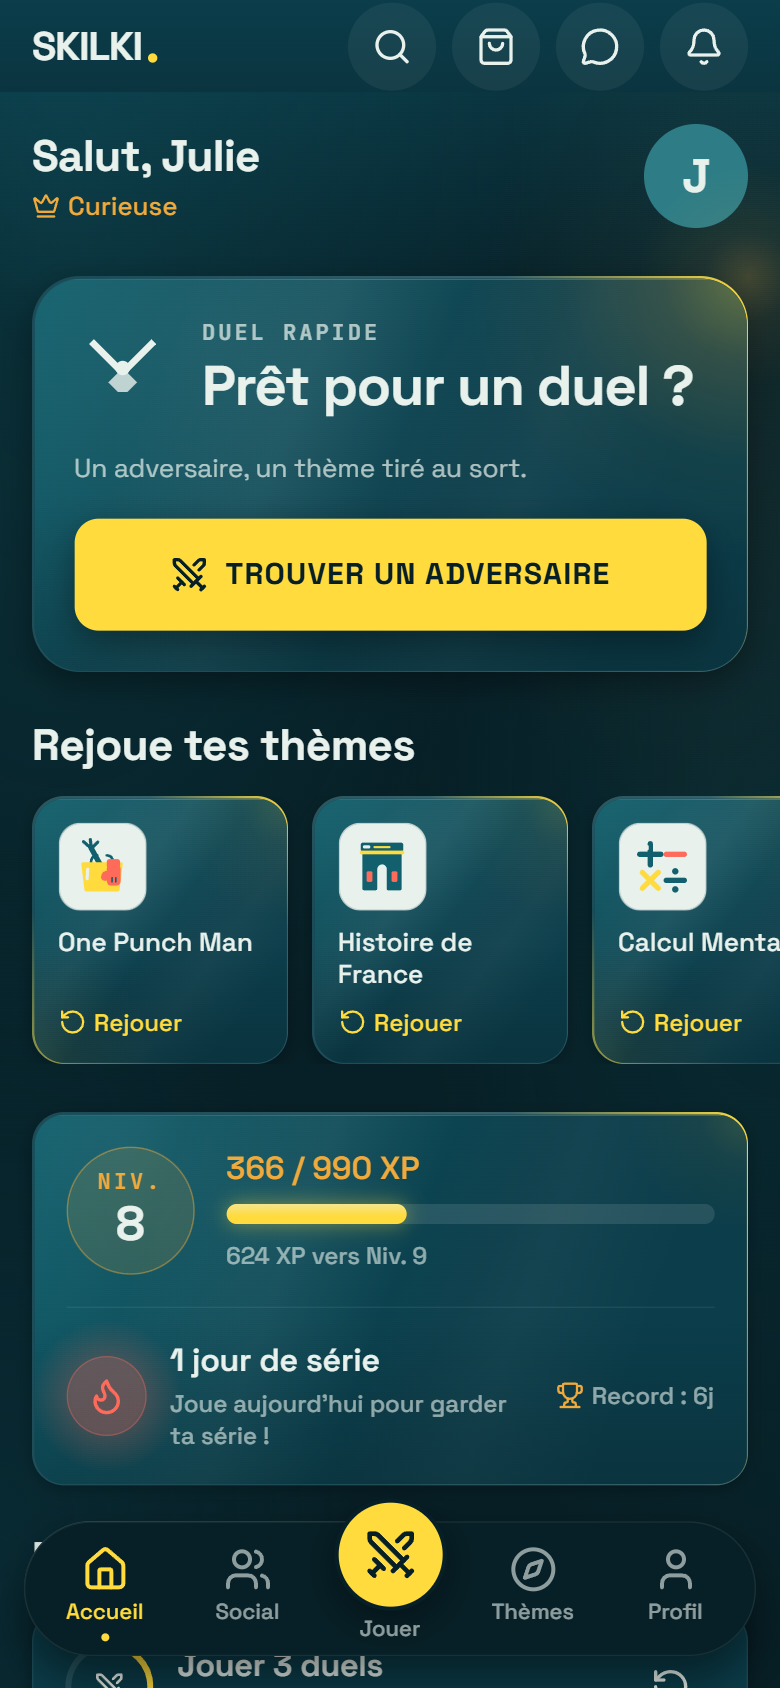
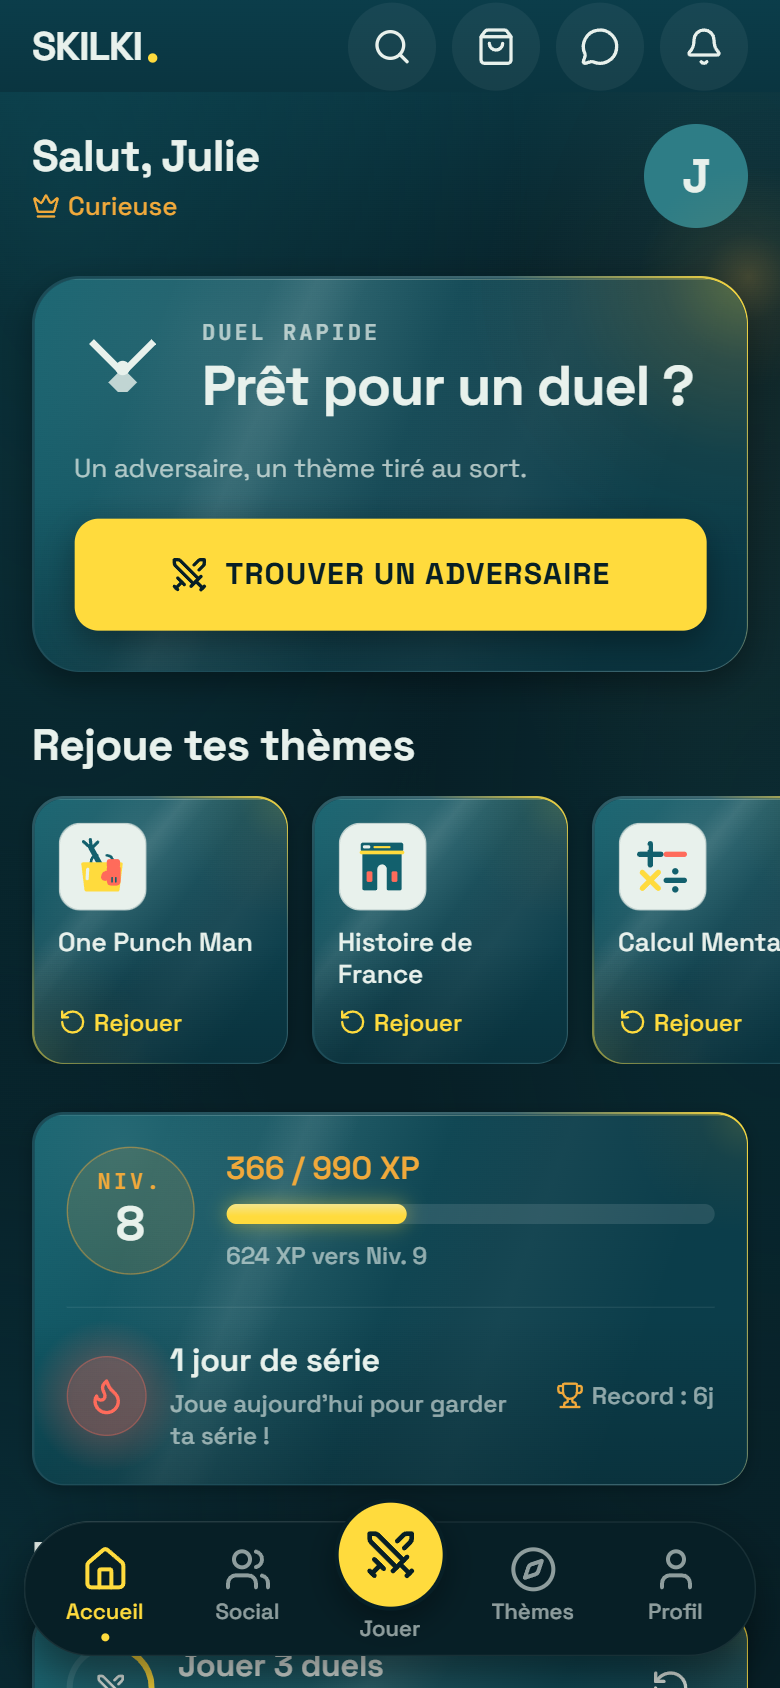
Accueil : finition satinée sur toutes les cartes de la page
Claude-Session: https://claude.ai/code/session_01R3eFQpVX5P8TU2NVP3JEF8

diff --git a/frontend/app/(tabs)/accueil.tsx b/frontend/app/(tabs)/accueil.tsx
@@ -20,7 +20,7 @@ import { authFetch } from '../../utils/api';
 import { t, getLanguage, pluralKey } from '../../utils/i18n';
 import { flushPendingScores } from '../../utils/pendingScores';
 import {
-  Txt, Icon, Button, IconButton, Badge, Card, Section, ProgressBar, ListRow, Loader,
+  Txt, Icon, Button, IconButton, Badge, Section, ProgressBar, ListRow, Loader,
   BottomSheet, Dialog, ThemeIcon, ThemeCard, AnswerButton, EmptyState, StatCard,
   SatinSurface, ProgressRing, HaloIcon, AmbientBackdrop,
 } from '../../components/ui';
@@ -380,7 +380,7 @@ const MissionsCard = React.memo(function MissionsCard({
   const canClaim = data.any_completed && !data.reward_claimed;
 
   return (
-    <Card>
+    <SatinSurface variant="card" contentStyle={styles.satinPad}>
       <View style={styles.missionList}>
         {data.missions.map((m) => {
           const pct = Math.min(m.progress / m.target, 1);
@@ -452,7 +452,7 @@ const MissionsCard = React.memo(function MissionsCard({
           </View>
         )}
       </View>
-    </Card>
+    </SatinSurface>
   );
 });
 
@@ -467,7 +467,7 @@ const ChallengeCard = React.memo(function ChallengeCard({ challenge, onAccept, o
     return `${h}h`;
   }
   return (
-    <Card accent="event">
+    <SatinSurface variant="card" warm="none" accent="event" contentStyle={styles.satinPad}>
       <View style={styles.rowCenter}>
         <UserAvatar avatarUrl={challenge.challenger_avatar_url} avatarSeed={challenge.challenger_avatar_seed} pseudo={challenge.challenger_pseudo} size={40} />
         <View style={styles.flexGap}>
@@ -486,7 +486,7 @@ const ChallengeCard = React.memo(function ChallengeCard({ challenge, onAccept, o
         <Button label={t('challenge.decline')} variant="ghost" size="sm" onPress={onDecline} haptic={false} style={styles.flex} />
         <Button label={t('challenge.accept')} icon="duel" size="sm" onPress={onAccept} haptic={false} style={styles.flex} />
       </View>
-    </Card>
+    </SatinSurface>
   );
 });
 
@@ -1315,13 +1315,13 @@ export default function AccueilScreen() {
         </Animated.View>
 
         {feedError ? (
-          <Card onPress={() => { setFeedError(false); loadFeed(); }}>
+          <SatinSurface variant="card" warm="none" contentStyle={styles.satinPad} onPress={() => { setFeedError(false); loadFeed(); }}>
             <View style={styles.rowCenter}>
               <Icon name="error" size={ICON_SIZE.md} color={COLOR.status.error} />
               <Txt variant="bodySmall" style={styles.flex}>{t('home.load_error')}</Txt>
               <Icon name="replay" size={ICON_SIZE.md} color={COLOR.text.secondary} />
             </View>
-          </Card>
+          </SatinSurface>
         ) : null}
 
         {/* ── 2. HERO Duel rapide : un seul CTA jaune ── */}
@@ -1361,12 +1361,12 @@ export default function AccueilScreen() {
                 />
               ))}
               {shownDuels.length > 0 && (
-                <Card style={styles.revengeCard}>
+                <SatinSurface variant="card" contentStyle={[styles.satinPad, styles.revengeCard]}>
                   <Txt variant="overline">{t('challenge.revenge_title')}</Txt>
                   {shownDuels.map((duel) => (
                     <RevengeRow key={duel.id} duel={duel} onRematch={() => handleRematch(duel)} />
                   ))}
-                </Card>
+                </SatinSurface>
               )}
               {canExpandMoves ? (
                 <Button
@@ -1491,9 +1491,11 @@ export default function AccueilScreen() {
                 style={styles.carousel}
                 contentContainerStyle={styles.carouselContent}
               >
-                {recommended.map(th => (
+                {recommended.map((th, i) => (
                   <ThemeCard
                     key={th.id}
+                    finish="satin"
+                    warm={i % 2 === 0 ? 'tr-bl' : 'tr'}
                     name={th.name}
                     themeId={th.id}
                     meta={th.match_count > 0 ? t(pluralKey('pilot.home.duels', th.match_count), { n: String(th.match_count) }) : undefined}
@@ -1506,7 +1508,7 @@ export default function AccueilScreen() {
         )}
 
         {/* ── Rangée discrète : bonus & événements, activité de la communauté ── */}
-        <Card padded={false} style={styles.moreCard}>
+        <SatinSurface variant="card" warm="none" contentStyle={styles.moreCard}>
           <ListRow
             leadingIcon="gift"
             title={t('pilot.home.bonus_row')}
@@ -1527,7 +1529,7 @@ export default function AccueilScreen() {
             style={styles.moreRow}
             testID="home-activity-row"
           />
-        </Card>
+        </SatinSurface>
       </ScrollView>
 
       {/* ── Feuille « Bonus & événements » ── */}
@@ -1783,6 +1785,8 @@ const styles = StyleSheet.create({
 
   // ── 3. À toi de jouer ──
   challengeActions: { flexDirection: 'row', gap: SPACE.sm, marginTop: SPACE.md },
+  // Cartes satinées : même padding que Card
+  satinPad: { padding: SPACE.cardPad },
   revengeCard: { paddingBottom: SPACE.sm },
 
   // ── 4. Progression ──

diff --git a/frontend/components/ui/ThemeCard.tsx b/frontend/components/ui/ThemeCard.tsx
@@ -3,6 +3,7 @@ import { View, Pressable, StyleSheet, StyleProp, ViewStyle } from 'react-native'
 import * as Haptics from 'expo-haptics';
 import Txt from './Txt';
 import ThemeIcon from './ThemeIcon';
+import SatinSurface from './SatinSurface';
 import { COLOR, RADII, SPACE, BORDER, TYPO } from '../../theme/tokens';
 import { t } from '../../utils/i18n';
 
@@ -23,24 +24,23 @@ type Props = {
    */
   layout?: 'tile' | 'compact' | 'row';
   onPress?: () => void;
+  /** 'satin' : même matière que les cartes de l'Accueil (tuile uniquement) */
+  finish?: 'flat' | 'satin';
+  /** Coins chauds du liseré satiné */
+  warm?: 'none' | 'tr' | 'tr-bl';
   testID?: string;
   style?: StyleProp<ViewStyle>;
 };
 
 // Carte de thème : icône sur plaque crème, nom, une seule méta. Pas de cartouche dans la carte.
-export default function ThemeCard({ name, themeId, cluster, superCategory, meta, level, layout = 'tile', onPress, testID, style }: Props) {
+export default function ThemeCard({ name, themeId, cluster, superCategory, meta, level, layout = 'tile', onPress, finish = 'flat', warm = 'tr', testID, style }: Props) {
   const compact = layout === 'compact';
   const tile = layout === 'tile' || compact;
   const containerStyle = compact ? styles.compact : tile ? styles.tile : styles.row;
   const iconSize = compact ? COMPACT_ICON : tile ? 64 : 44;
-  return (
-    <Pressable
-      testID={testID}
-      accessibilityRole="button"
-      accessibilityLabel={name}
-      onPress={() => { Haptics.impactAsync(Haptics.ImpactFeedbackStyle.Light); onPress?.(); }}
-      style={({ pressed }) => [containerStyle, pressed && styles.pressed, style]}
-    >
+  const satin = finish === 'satin' && layout === 'tile';
+  const body = (
+    <>
       <ThemeIcon themeId={themeId} themeName={name} cluster={cluster} superCategory={superCategory} size={iconSize} />
       <View style={compact ? styles.compactTexts : tile ? styles.tileTexts : styles.rowTexts}>
         <Txt
@@ -60,6 +60,25 @@ export default function ThemeCard({ name, themeId, cluster, superCategory, meta,
           </Txt>
         ) : null}
       </View>
+    </>
+  );
+  const press = () => { Haptics.impactAsync(Haptics.ImpactFeedbackStyle.Light); onPress?.(); };
+  if (satin) {
+    return (
+      <SatinSurface variant="card" warm={warm} testID={testID} onPress={press} accessibilityLabel={name} style={style} contentStyle={styles.tileSatin}>
+        {body}
+      </SatinSurface>
+    );
+  }
+  return (
+    <Pressable
+      testID={testID}
+      accessibilityRole="button"
+      accessibilityLabel={name}
+      onPress={press}
+      style={({ pressed }) => [containerStyle, pressed && styles.pressed, style]}
+    >
+      {body}
     </Pressable>
   );
 }
@@ -80,6 +99,8 @@ const styles = StyleSheet.create({
     alignItems: 'center',
     gap: SPACE.md,
   },
+  // Le liseré satiné (1 px) entoure la tuile : même encombrement que 'tile'
+  tileSatin: { width: 140 - 2 * BORDER.hair, minHeight: 168 - 2 * BORDER.hair, padding: SPACE.md, alignItems: 'center', gap: SPACE.md },
   tileTexts: { gap: SPACE.xs, alignItems: 'center' },
   compact: {
     width: 108,

diff --git a/frontend/components/ui/SatinSurface.tsx b/frontend/components/ui/SatinSurface.tsx
@@ -22,7 +22,10 @@ type Props = {
   /** Coins dont le liseré chauffe vers le jaune */
   warm?: Warm;
   halo?: boolean;
+  /** 'event' = liseré corail à gauche (défi reçu), comme Card */
+  accent?: 'none' | 'event';
   onPress?: () => void;
+  testID?: string;
   accessibilityLabel?: string;
   style?: StyleProp<ViewStyle>;
   contentStyle?: StyleProp<ViewStyle>;
@@ -59,7 +62,7 @@ function Radial({ id, size, stops }: { id: string; size: number; stops: [number,
 }
 
 export default function SatinSurface({
-  children, variant = 'hero', warm = 'tr', halo = false, onPress, accessibilityLabel, style, contentStyle,
+  children, variant = 'hero', warm = 'tr', halo = false, accent = 'none', onPress, testID, accessibilityLabel, style, contentStyle,
 }: Props) {
   const s = SIZES[variant];
   const reduceMotion = useReducedMotion();
@@ -153,6 +156,7 @@ export default function SatinSurface({
               end={{ x: 1, y: 0 }}
               style={styles.topEdge}
             />
+            {accent === 'event' ? <View style={styles.event} /> : null}
             {pressed ? <View style={[StyleSheet.absoluteFill, styles.pressed]} /> : null}
           </View>
           {children}
@@ -162,9 +166,9 @@ export default function SatinSurface({
   );
 
   const shell = [styles.shell, { borderRadius: s.radius }, s.elevation, style];
-  if (!onPress) return <View style={shell}>{body(false)}</View>;
+  if (!onPress) return <View testID={testID} style={shell}>{body(false)}</View>;
   return (
-    <Pressable onPress={onPress} accessibilityRole="button" accessibilityLabel={accessibilityLabel} style={shell}>
+    <Pressable testID={testID} onPress={onPress} accessibilityRole="button" accessibilityLabel={accessibilityLabel} style={shell}>
       {({ pressed }) => body(pressed)}
     </Pressable>
   );
@@ -178,4 +182,5 @@ const styles = StyleSheet.create({
   sheen: { position: 'absolute' },
   topEdge: { position: 'absolute', top: 0, left: 0, right: 0, height: 1 },
   pressed: { backgroundColor: alpha(PALETTE.cream, 0.05) },
+  event: { position: 'absolute', top: 0, bottom: 0, left: 0, width: 3, backgroundColor: PALETTE.coral },
 });
